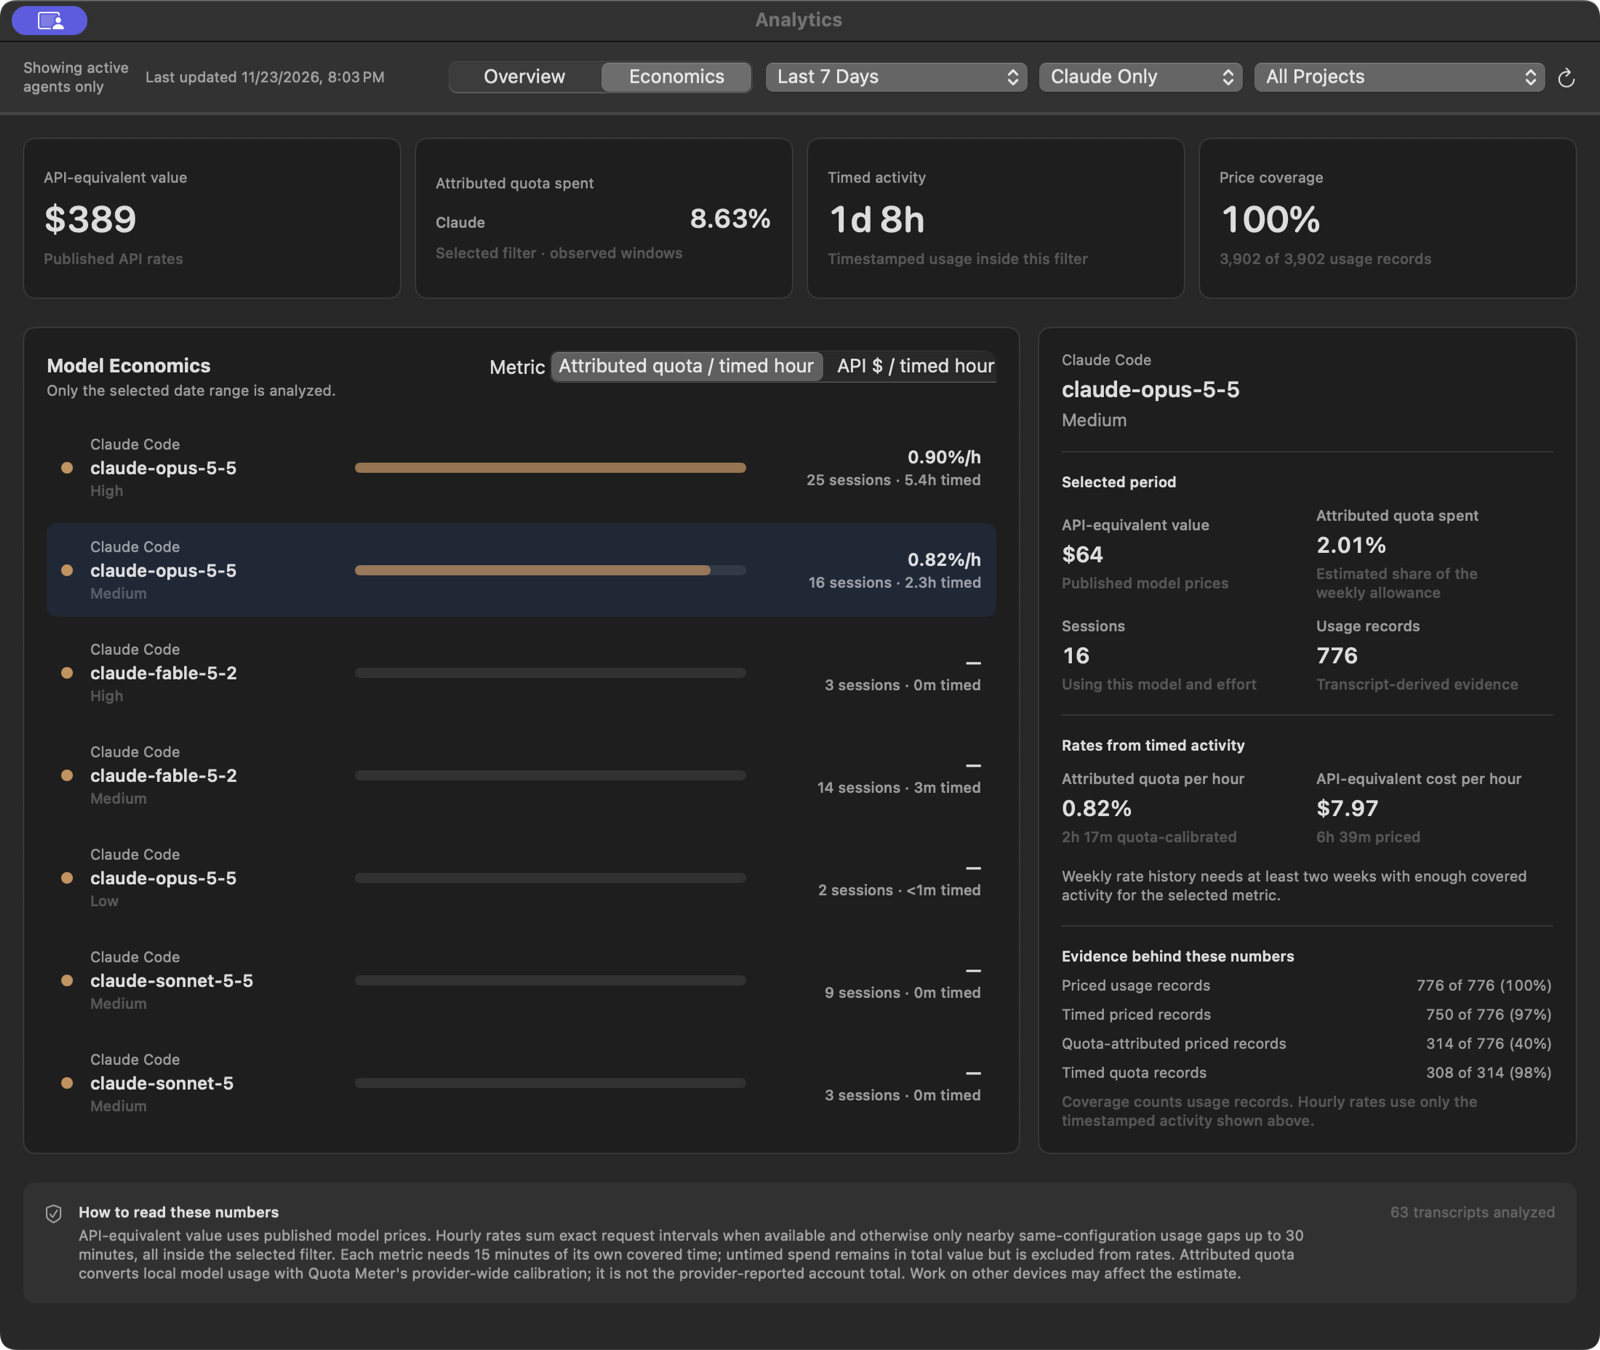
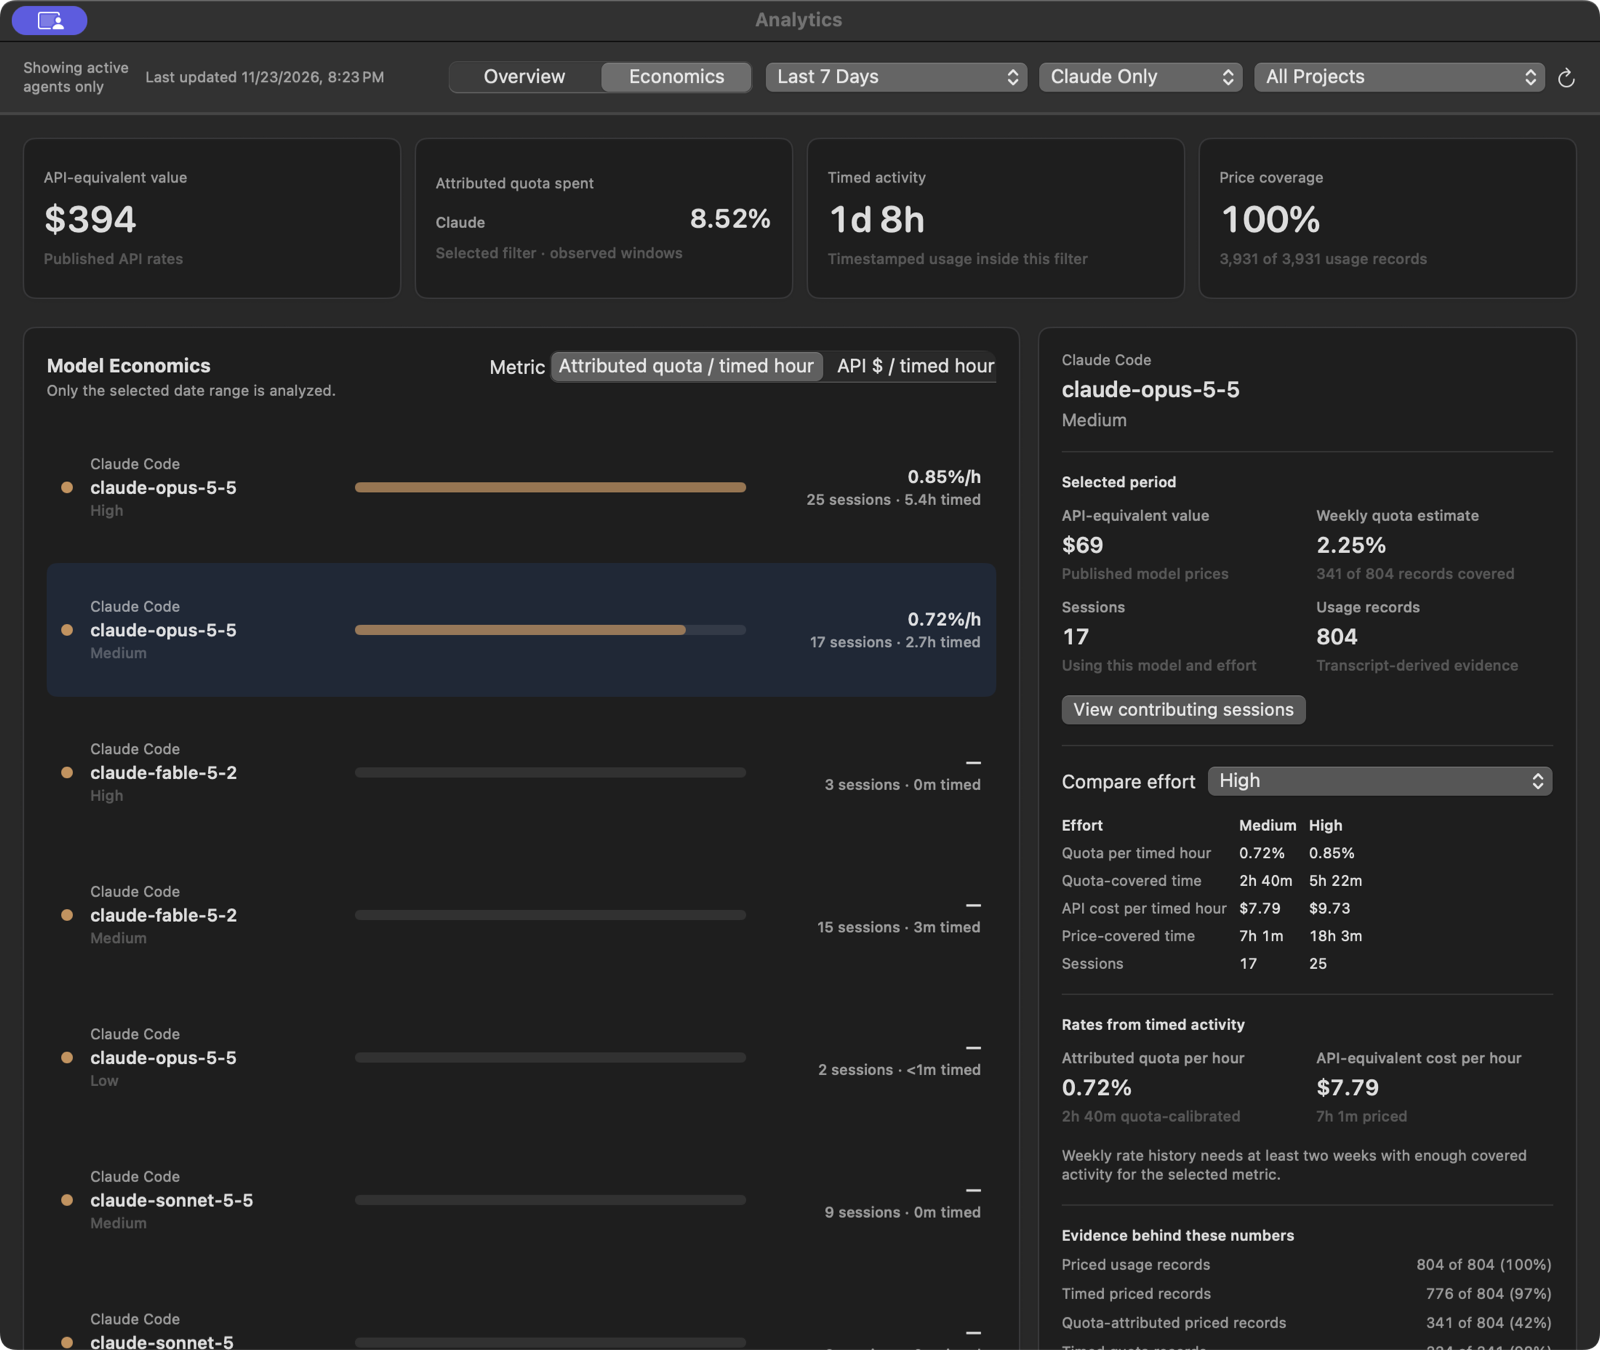
fix(analytics): open contributing transcripts in Economics
Tool: Codex
Model: GPT-6.2 Sol
Why: keep the comparison open while reliably showing the selected session

diff --git a/AgentSessions/Analytics/Views/EconomicsAnalyticsView.swift b/AgentSessions/Analytics/Views/EconomicsAnalyticsView.swift
@@ -5,6 +5,7 @@ struct EconomicsAnalyticsView: View {
     let snapshot: EconomicsSnapshot
     let phase: EconomicsAnalysisPhase
     let progress: EconomicsAnalysisProgress
+    let catalog: SessionProviderCatalog
     let contributingSessions: (EconomicsConfigurationRow) -> [Session]
 
     @Environment(\.colorScheme) private var colorScheme
@@ -12,8 +13,6 @@ struct EconomicsAnalyticsView: View {
     @State private var selectedConfigurationID: String?
     @State private var comparisonID: String?
     @State private var sessionsRow: EconomicsConfigurationRow?
-    @State private var sessionToOpen: Session?
-    @AppStorage(PreferencesKey.Unified.showTranscriptWindow) private var showTranscriptWindow = true
     @State private var metric: EconomicsMetric = .quotaPerHour
 
     private var displayRows: [EconomicsConfigurationRow] {
@@ -52,8 +51,12 @@ struct EconomicsAnalyticsView: View {
         .onAppear { selectFirstRowIfNeeded() }
         .onChange(of: snapshot.rows.map(\.id)) { _, _ in selectFirstRowIfNeeded() }
         .onChange(of: selectedRow?.id) { _, _ in comparisonID = nil }
-        .sheet(item: $sessionsRow, onDismiss: openSelectedSession) { row in
-            sessionsSheet(for: row)
+        .sheet(item: $sessionsRow) { row in
+            EconomicsContributingSessionsView(
+                configuration: row.configuration,
+                sessions: contributingSessions(row),
+                catalog: catalog
+            )
         }
     }
 
@@ -428,58 +431,6 @@ struct EconomicsAnalyticsView: View {
         }
     }
 
-    private func sessionsSheet(for row: EconomicsConfigurationRow) -> some View {
-        let sessions = contributingSessions(row)
-        return VStack(alignment: .leading, spacing: AnalyticsDesign.metricsCardSpacing) {
-            Text("Contributing sessions")
-                .font(.headline)
-            Text("\(row.configuration.modelDisplayName) · \(row.configuration.effortDisplayName)")
-                .foregroundStyle(.secondary)
-            if sessions.isEmpty {
-                Text("These sessions are no longer in the index.")
-                    .frame(maxHeight: .infinity)
-            } else {
-                List(sessions) { session in
-                    Button {
-                        sessionToOpen = session
-                        sessionsRow = nil
-                    } label: {
-                        VStack(alignment: .leading) {
-                            Text(session.listTitle).lineLimit(2)
-                            if let date = session.endTime ?? session.startTime {
-                                Text(date, format: .dateTime.month().day().hour().minute())
-                                    .font(.caption)
-                                    .foregroundStyle(.secondary)
-                            }
-                        }
-                        .frame(maxWidth: .infinity, alignment: .leading)
-                        .contentShape(Rectangle())
-                    }
-                    .buttonStyle(.plain)
-                }
-            }
-            Button("Done", role: .cancel) { sessionsRow = nil }
-                .keyboardShortcut(.cancelAction)
-                .frame(maxWidth: .infinity, alignment: .trailing)
-        }
-        .padding(AnalyticsDesign.windowPadding)
-        .frame(width: 520, height: 440)
-    }
-
-    private func openSelectedSession() {
-        guard let sessionToOpen else { return }
-        self.sessionToOpen = nil
-        showTranscriptWindow = true
-        CockpitNavigationBridge.navigate(PendingCockpitNavigationRequest(
-            unifiedSessionID: sessionToOpen.id,
-            sourceRawValue: sessionToOpen.source.rawValue,
-            runtimeSessionID: nil,
-            logPath: nil,
-            workingDirectory: nil,
-            createdAt: .now
-        ))
-    }
-
     private func hourlyRateSummary(for row: EconomicsConfigurationRow) -> some View {
         VStack(alignment: .leading, spacing: 10) {
             Text("Rates from timed activity")
@@ -783,4 +734,78 @@ struct EconomicsAnalyticsView: View {
         }
     }
 
+}
+
+private struct EconomicsContributingSessionsView: View {
+    let configuration: EconomicsConfigurationKey
+    let sessions: [Session]
+    let catalog: SessionProviderCatalog
+
+    @Environment(\.dismiss) private var dismiss
+    @State private var selectedSession: Session?
+    @StateObject private var focusCoordinator = WindowFocusCoordinator()
+    @StateObject private var searchState = UnifiedSearchState()
+
+    var body: some View {
+        VStack(alignment: .leading, spacing: AnalyticsDesign.metricsCardSpacing) {
+            if let session = selectedSession {
+                Button {
+                    focusCoordinator.perform(.closeAllSearch)
+                    selectedSession = nil
+                } label: {
+                    Label("Contributing sessions", systemImage: "chevron.left")
+                }
+                Text(session.listTitle)
+                    .font(.headline)
+                    .lineLimit(2)
+                TranscriptHostView(kind: session.source, selection: session.id, catalog: catalog)
+                    .environmentObject(focusCoordinator)
+                    .environmentObject(searchState)
+                    .environmentObject(SessionArchiveManager.shared)
+                    .id(session.id)
+            } else {
+                Text("Contributing sessions")
+                    .font(.headline)
+                Text("\(configuration.modelDisplayName) · \(configuration.effortDisplayName)")
+                    .foregroundStyle(.secondary)
+                sessionList
+            }
+
+            Button("Done", role: .cancel) { dismiss() }
+                .keyboardShortcut(.cancelAction)
+                .frame(maxWidth: .infinity, alignment: .trailing)
+        }
+        .padding(AnalyticsDesign.windowPadding)
+        .frame(width: 760, height: 560)
+    }
+
+    @ViewBuilder
+    private var sessionList: some View {
+        if sessions.isEmpty {
+            Text("These sessions are no longer in the index.")
+                .frame(maxHeight: .infinity)
+        } else {
+            List(sessions) { session in
+                Button {
+                    if session.events.isEmpty || session.isPartiallyHydrated {
+                        catalog[session.source].handle.reloadFocusedSession(session.id, false, .selection)
+                    }
+                    focusCoordinator.perform(.selectSession(id: session.id))
+                    selectedSession = session
+                } label: {
+                    VStack(alignment: .leading) {
+                        Text(session.listTitle).lineLimit(2)
+                        if let date = session.endTime ?? session.startTime {
+                            Text(date, format: .dateTime.month().day().hour().minute())
+                                .font(.caption)
+                                .foregroundStyle(.secondary)
+                        }
+                    }
+                    .frame(maxWidth: .infinity, alignment: .leading)
+                    .contentShape(Rectangle())
+                }
+                .buttonStyle(.plain)
+            }
+        }
+    }
 }

diff --git a/AgentSessions/Views/UnifiedSessionsView.swift b/AgentSessions/Views/UnifiedSessionsView.swift
@@ -2738,20 +2738,21 @@ struct UnifiedSessionsView: View {
             return false
         }
 
-        let wasVisible = cachedRowByID[session.id]?.source == session.source
+        let wasVisible = cachedRows.contains(where: { $0.id == session.id })
         if !wasVisible {
             applyAutoRevealFiltersForCockpitNavigation(session)
             _ = updateCachedRows()
         }
 
-        guard cachedRowByID[session.id]?.source == session.source else {
+        guard cachedRows.contains(where: { $0.id == session.id }) else {
             if emitBeepOnFailure {
                 NSSound.beep()
             }
             return false
         }
 
-        setActiveSelection(session.id, source: session.source, userInitiated: true)
+        let selectedSource = cachedRows.first(where: { $0.id == session.id })?.source ?? session.source
+        setActiveSelection(session.id, source: selectedSource, userInitiated: true)
         focusCoordinator.perform(.selectSession(id: session.id))
         NotificationCenter.default.post(name: .collapseInlineSearchIfEmpty, object: nil)
         updateFocusedSessionIfNeeded(session)
@@ -2828,9 +2829,6 @@ struct UnifiedSessionsView: View {
         if unified.showArchivedCodexDesktopOnly, session.source == .codex, !session.isArchivedCodexDesktopSession {
             unified.showArchivedCodexDesktopOnly = false
         }
-        if unified.showArchivedClaudeDesktopOnly, session.source == .claude, !unified.isArchivedClaudeDesktop(session) {
-            unified.showArchivedClaudeDesktopOnly = false
-        }
 
         if !unified.queryDraft.trimmingCharacters(in: .whitespacesAndNewlines).isEmpty || !unified.query.isEmpty {
             unified.queryDraft = ""
@@ -2838,12 +2836,7 @@ struct UnifiedSessionsView: View {
             searchCoordinator.clear()
         }
 
-        if let project = session.rowProjectIdentity,
-           unified.hiddenProjectRoots.contains(project.canonicalRootPath) {
-            unified.projectSelection = ProjectSelection.makeSelection(for: session, among: cachedRows)
-        } else if unified.projectSelection != nil {
-            unified.projectSelection = nil
-        }
+        if unified.projectSelection != nil { unified.projectSelection = nil }
         if unified.dateFrom != nil { unified.dateFrom = nil }
         if unified.dateTo != nil { unified.dateTo = nil }
         if unified.selectedModel != nil { unified.selectedModel = nil }

diff --git a/AgentSessions/AgentSessionsApp.swift b/AgentSessions/AgentSessionsApp.swift
@@ -121,33 +121,6 @@ enum CockpitNavigationBridge {
     private static let workingDirectoryKey = "workingDirectory"
     private static let createdAtKey = "createdAtEpoch"
 
-    @MainActor
-    static func navigate(_ request: PendingCockpitNavigationRequest) {
-        store(request)
-        AppWindowRouter.showAgentSessionsWindow()
-        postNavigation(request, attempt: 0)
-    }
-
-    @MainActor
-    private static func postNavigation(_ request: PendingCockpitNavigationRequest, attempt: Int) {
-        guard isPending(request) else { return }
-        let payload: [AnyHashable: Any] = [
-            "source": request.sourceRawValue,
-            "runtimeSessionID": request.runtimeSessionID,
-            "logPath": request.logPath,
-            "workingDirectory": request.workingDirectory
-        ].compactMapValues { $0 }
-        NotificationCenter.default.post(
-            name: .navigateToSessionFromCockpit,
-            object: request.unifiedSessionID,
-            userInfo: payload
-        )
-        guard attempt < 8, isPending(request) else { return }
-        DispatchQueue.main.asyncAfter(deadline: .now() + 0.15) {
-            postNavigation(request, attempt: attempt + 1)
-        }
-    }
-
     static func store(_ request: PendingCockpitNavigationRequest) {
         let payload: [String: Any] = [
             unifiedSessionIDKey: request.unifiedSessionID,
@@ -194,11 +167,8 @@ enum CockpitNavigationBridge {
         clear()
     }
 
-    private static func isPending(_ request: PendingCockpitNavigationRequest) -> Bool {
-        guard let pending = load() else { return false }
-        return pending.unifiedSessionID == request.unifiedSessionID
-            && pending.sourceRawValue == request.sourceRawValue
-            && pending.createdAt.timeIntervalSince1970 == request.createdAt.timeIntervalSince1970
+    static func hasPending(unifiedSessionID: String) -> Bool {
+        load()?.unifiedSessionID == unifiedSessionID
     }
 }
 

diff --git a/AgentSessions/Views/AgentCockpitHUDView.swift b/AgentSessions/Views/AgentCockpitHUDView.swift
@@ -1803,7 +1803,46 @@ struct AgentCockpitHUDView: View {
             workingDirectory: row.workingDirectory,
             createdAt: Date()
         )
-        CockpitNavigationBridge.navigate(pendingRequest)
+        CockpitNavigationBridge.store(pendingRequest)
+
+        AppWindowRouter.showAgentSessionsWindow()
+
+        var payload: [AnyHashable: Any] = ["source": row.source.rawValue]
+        if let runtimeSessionID = row.runtimeSessionID, !runtimeSessionID.isEmpty {
+            payload["runtimeSessionID"] = runtimeSessionID
+        }
+        if let logPath = row.logPath, !logPath.isEmpty {
+            payload["logPath"] = logPath
+        }
+        if let workingDirectory = row.workingDirectory, !workingDirectory.isEmpty {
+            payload["workingDirectory"] = workingDirectory
+        }
+        postGoToSessionNotification(
+            unifiedSessionID: resolvedSessionID,
+            payload: payload,
+            attempt: 0
+        )
+    }
+
+    private func postGoToSessionNotification(unifiedSessionID: String,
+                                             payload: [AnyHashable: Any],
+                                             attempt: Int) {
+        NotificationCenter.default.post(
+            name: .navigateToSessionFromCockpit,
+            object: unifiedSessionID,
+            userInfo: payload
+        )
+
+        guard attempt < 8 else { return }
+        guard CockpitNavigationBridge.hasPending(unifiedSessionID: unifiedSessionID) else { return }
+
+        DispatchQueue.main.asyncAfter(deadline: .now() + 0.15) {
+            postGoToSessionNotification(
+                unifiedSessionID: unifiedSessionID,
+                payload: payload,
+                attempt: attempt + 1
+            )
+        }
     }
 
     private func revealLog(_ row: HUDRow) {

diff --git a/docs/index.html b/docs/index.html
@@ -550,7 +550,7 @@
         <div class="ic"><svg viewBox="0 0 24 24" fill="none" stroke="currentColor" stroke-width="1.8" stroke-linecap="round" stroke-linejoin="round"><path d="M4 20V4"/><path d="M4 20h16"/><rect x="7" y="12" width="3" height="5" rx="1"/><rect x="13" y="8" width="3" height="9" rx="1"/></svg></div>
         <h3>Analytics &amp; Economics</h3>
         <p>See session trends, which agents you use, and when you use them. Economics compares API-equivalent value and attributed quota by agent, model, and thinking effort, with explicit timing and coverage limits.</p>
-        <img class="feat-preview" src="assets/economics-dark.png" alt="Economics dashboard showing Claude model costs, quota estimates, and coverage, with details for Opus at medium effort"
+        <img class="feat-preview" src="assets/economics-dark.png" alt="Economics dashboard comparing Medium and High effort for Claude Opus, including hourly rates, covered time, and session counts"
              width="1600" height="1350" loading="lazy" decoding="async">
       </div>
     </div>

diff --git a/AgentSessions/Analytics/Services/AnalyticsService.swift b/AgentSessions/Analytics/Services/AnalyticsService.swift
@@ -15,7 +15,7 @@ final class AnalyticsService: ObservableObject {
     @Published private(set) var economicsPhase: EconomicsAnalysisPhase = .idle
     @Published private(set) var economicsProgress: EconomicsAnalysisProgress = .empty
 
-    private let catalog: SessionProviderCatalog
+    let catalog: SessionProviderCatalog
 
     /// Registry-ordered runtimes. This is the whole per-source surface the service needs:
     /// it reads sessions and launch phases through the type-erased `ProviderHandle` and

diff --git a/AgentSessions/Analytics/Views/AnalyticsView.swift b/AgentSessions/Analytics/Views/AnalyticsView.swift
@@ -259,6 +259,7 @@ struct AnalyticsView: View {
                 snapshot: service.economicsSnapshot,
                 phase: service.economicsPhase,
                 progress: service.economicsProgress,
+                catalog: service.catalog,
                 contributingSessions: service.contributingSessions(for:)
             )
         }
